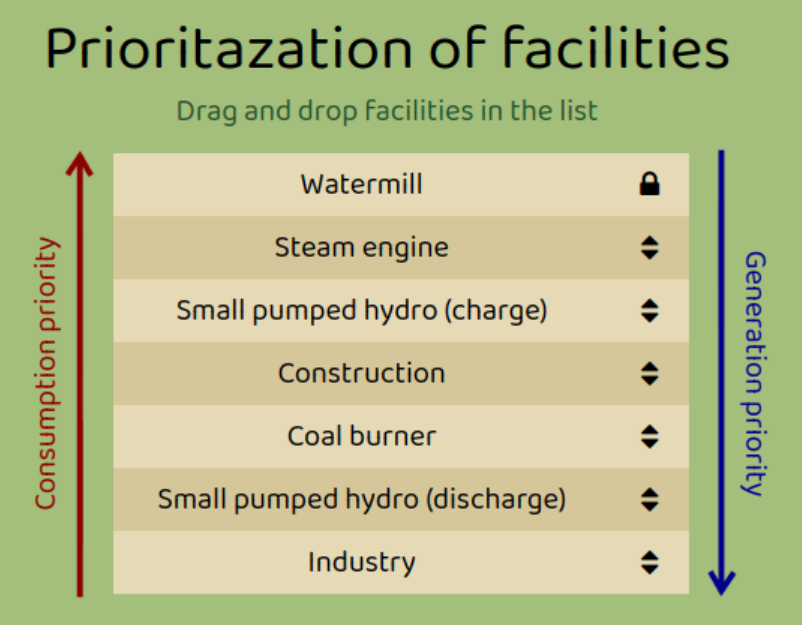
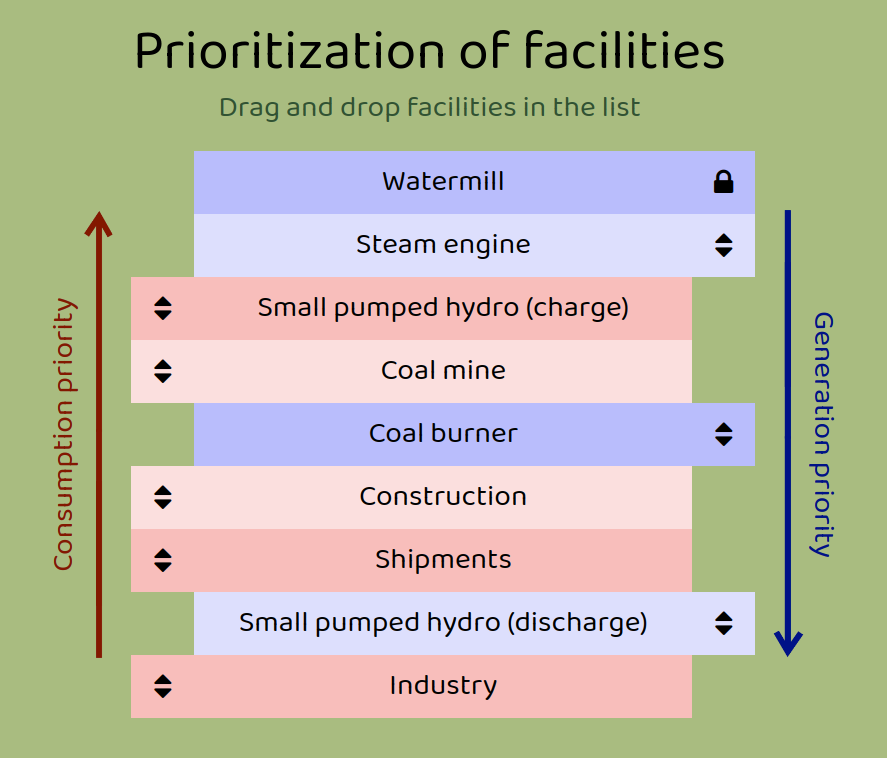
redesigned interactive priority list

diff --git a/website/static/home.js b/website/static/home.js
@@ -10,6 +10,8 @@ const storageCharging = [
     "buy_solid_state_batteries",
 ]
 
+let renewables;
+
 const initSortableList = (e) => {
     e.preventDefault();
     const draggingItem = document.querySelector(".dragging");
@@ -32,6 +34,38 @@ const initSortableList = (e) => {
 
     // Inserting the dragging item before the found sibling
     sortableList.insertBefore(draggingItem, nextSibling);
+
+    reset_icons();
+    siblings = [...sortableList.querySelectorAll(".item:not(.dragging)")];
+    siblings.forEach(sibling => {
+        const siblingRect = sibling.getBoundingClientRect();
+        const siblingOffsetY = siblingRect.top - sortableListRect.top + sibling.offsetHeight / 2;
+        if (draggingItem.classList.contains('gen') && sibling.classList.contains('cons')){
+            const icon = sibling.querySelector("#priority_list_icon");
+            icon.classList.remove('fa-sort');
+            icon.classList.remove('fa-lock');
+            if (siblingOffsetY > offsetY) {
+                icon.classList.add('fa-bolt');
+                icon.classList.add('txt-pine');
+            }else{
+                sibling.classList.add('dimmed');
+                icon.classList.add('fa-times');
+                icon.classList.add('txt-red');
+            }
+        }
+        if (draggingItem.classList.contains('cons') && sibling.classList.contains('gen')){
+            const icon = sibling.querySelector("#priority_list_icon");
+            icon.classList.remove('fa-sort');
+            if (siblingOffsetY > offsetY) {
+                sibling.classList.add('dimmed');
+                icon.classList.add('fa-times');
+                icon.classList.add('txt-red');
+            }else{
+                icon.classList.add('fa-bolt');
+                icon.classList.add('txt-pine');
+            }
+        }
+    });
 }
 
 function send_new_list(){
@@ -53,38 +87,51 @@ if (sortableList){
     .then((response) => response.json())
     .then((raw_data) => {
         load_const_config().then((const_config) => {
+            renewables = raw_data[0];
             for(facility of raw_data[0]){
                 let name = const_config[facility].name;
-                sortableList.innerHTML += `<li class="item medium">
+                sortableList.innerHTML += `<li class="item medium gen" style="margin-left:2.1em;" id="${ facility }">
                 <div class="details padding">
                 <span>${ name }</span>
                 </div>
-                <i class="fa fa-lock padding priority_list_icon"></i>
+                <i id="priority_list_icon" class="fa fa-lock priority_list_icon"></i>
             </li>`
             }
             for(facility of raw_data[1]){
-                let name
+                let name;
+                let generation = true;
                 if (storageCharging.includes(facility)){
-                    name = const_config[facility.slice(4)].name + " (charge)"
+                    generation = false;
+                    name = const_config[facility.slice(4)].name + " (charge)";
                 }else if(storageCharging.includes("buy_" + facility)){
-                    name = const_config[facility].name + " (discharge)"
+                    name = const_config[facility].name + " (discharge)";
                 }else if (facility.includes("buy_")){
+                    generation = false;
                     if (facility.slice(4) in const_config){
-                        name = const_config[facility.slice(4)].name
+                        name = const_config[facility.slice(4)].name;
                     }else if(facility == "buy_transport"){
-                        name = "Shipments"
+                        name = "Shipments";
                     }else{
                         name = facility.charAt(4).toUpperCase() + facility.slice(5);
                     }
                 }else{
-                    name = const_config[facility].name
+                    name = const_config[facility].name;
                 }
-                sortableList.innerHTML += `<li class="item medium draggable" draggable="true" id="${ facility }">
-                <div class="details padding">
-                <span>${ name }</span>
-                </div>
-                <i class="fa fa-sort padding priority_list_icon"></i>
-            </li>`
+                if(generation){
+                    sortableList.innerHTML += `<li class="item medium draggable gen" draggable="true" id="${ facility }">
+                        <div class="details padding">
+                        <span>${ name }</span>
+                        </div>
+                        <i id="priority_list_icon" class="fa fa-sort priority_list_icon"></i>
+                        </li>`
+                }else{
+                    sortableList.innerHTML += `<li class="item medium draggable cons" draggable="true" id="${ facility }">
+                        <i id="priority_list_icon" class="fa fa-sort priority_list_icon"></i>
+                        <div class="details padding">
+                        <span>${ name }</span>
+                        </div>
+                        </li>`
+                }
             }
             const items = sortableList.querySelectorAll(".item");
             items.forEach(item => {
@@ -92,11 +139,13 @@ if (sortableList){
                 item.addEventListener("dragend", () => {
                     item.classList.remove("dragging");
                     send_new_list();
+                    reset_icons();
                 });
                 item.addEventListener("touchstart", () => item.classList.add("dragging"));
                 item.addEventListener("touchend", () => {
                     item.classList.remove("dragging");
                     send_new_list();
+                    reset_icons();
                 });
             });
         });
@@ -109,4 +158,20 @@ if (sortableList){
     sortableList.addEventListener("dragenter", e => e.preventDefault());
     sortableList.addEventListener("touchmove", initSortableList);
     sortableList.addEventListener("touchenter", e => e.preventDefault());
+}
+
+function reset_icons(){
+    let icons = document.querySelectorAll("#priority_list_icon");
+    icons.forEach(icon => {
+        icon.parentElement.classList.remove('dimmed');
+        icon.classList.remove('fa-times');
+        icon.classList.remove('fa-bolt');
+        icon.classList.remove('txt-pine');
+        icon.classList.remove('txt-red');
+        if (renewables.includes(icon.parentElement.id)){
+            icon.classList.add('fa-lock');
+        }else{
+            icon.classList.add('fa-sort');
+        }
+    });
 }

diff --git a/website/static/energetica.css b/website/static/energetica.css
@@ -1212,20 +1212,44 @@ canvas {
     padding:0;
 }
 
-.priority_list li:nth-child(even) {
-    background-color: #d6c79a
-}
-
 .priority_list .item {
-    background-color: #e5d9b6;
     list-style: none;
     display: flex;
     align-items: center;
     justify-content: space-between;
 }
 
+.priority_list .item.cons:nth-child(even) {
+    background-color: #ffdede; /* Lighter red */
+}
+
+.priority_list .item.cons:nth-child(odd) {
+    background-color: #ffbbbb; /* Darker red */
+}
+
+.priority_list .item.gen:nth-child(even) {
+    background-color: #dedeff; /* Lighter blue */
+}
+
+.priority_list .item.gen:nth-child(odd) {
+    background-color: #bbbbff; /* Darker blue */
+}
+
 .draggable {
     cursor: grab;
+}
+
+.draggable.dimmed {
+    opacity: 0.5;
+    filter: grayscale(100%);
+}
+
+.draggable.gen{
+    margin-left:2.1em;
+}
+
+.draggable.cons{
+    margin-right:2.1em;
 }
 
 .dragging {
@@ -1245,6 +1269,7 @@ canvas {
 .priority_list_icon{
     width:1em;
     text-align: center;
+    margin:0 0.55em;
 }
 
 .priority_arrow_img{

diff --git a/website/api/http.py b/website/api/http.py
@@ -153,7 +153,7 @@ def get_chart_data():
 
     total_t = g.engine.data["total_t"]
     current_data = g.engine.data["current_data"][current_user.id].get_data(
-        t=total_t % 60 + 1
+        t=total_t % 216 + 1
     )
     filename = f"instance/player_data/player_{current_user.id}.pck"
     with open(filename, "rb") as file:
@@ -165,7 +165,7 @@ def get_chart_data():
         current_network_data = {
             "network_data": g.engine.data["network_data"][
                 current_user.network.id
-            ].get_data(t=total_t % 60 + 1)
+            ].get_data(t=total_t % 216 + 1)
         }
         filename = (
             f"instance/network_data/{current_user.network.id}/time_series.pck"

diff --git a/website/init_test_players.py b/website/init_test_players.py
@@ -123,6 +123,17 @@ def init_test_players(engine):
         add_asset(player3, "onshore_wind_turbine", 5)
         db.session.commit()
 
+    player4 = create_player(engine, "user4", "password")
+    if player4:
+        Hex.query.filter_by(id=28).first().player_id = player4.id
+        add_asset(player4, "warehouse", 1)
+        add_asset(player4, "watermill", 1)
+        add_asset(player4, "steam_engine", 1)
+        add_asset(player4, "small_pumped_hydro", 1)
+        add_asset(player4, "coal_burner", 1)
+        add_asset(player4, "coal_mine", 1)
+        db.session.commit()
+
     create_network(engine, "net", [player, player2, player3])
     db.session.commit()
 
